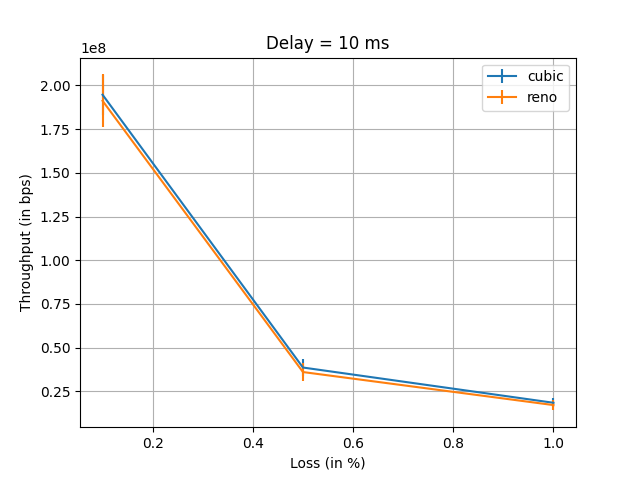
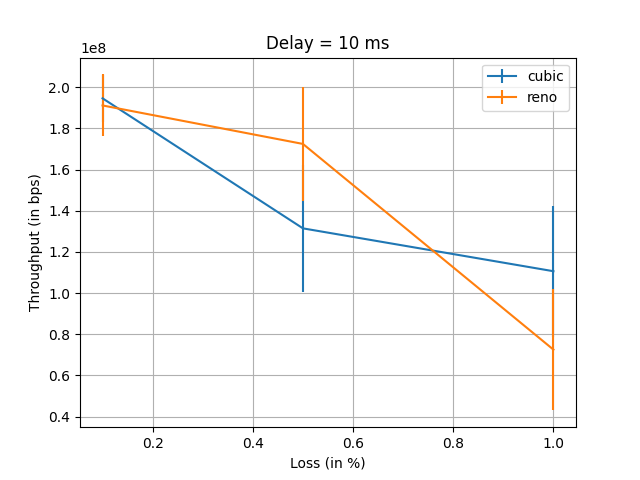
script

diff --git a/6/codes/plot.py b/6/codes/plot.py
@@ -60,8 +60,8 @@ for i in range(0,3):
 
 for i in range(0,3):
 	fig = plt.figure()
-	plt.errorbar(losses, mu_cubic[i][:], yerr=(1.645/math.sqrt(20))*sd_cubic[i][:],label='cubic')
-	plt.errorbar(losses, mu_reno[i][:], yerr=(1.645/math.sqrt(20))*sd_reno[i][:],label='reno')
+	plt.errorbar(losses, [row[i] for row in mu_cubic], yerr=(1.645/math.sqrt(20))*numpy.array([row[i] for row in sd_cubic]),label='cubic')
+	plt.errorbar(losses, [row[i] for row in mu_reno], yerr=(1.645/math.sqrt(20))*numpy.array([row[i] for row in sd_reno]),label='reno')
 	plt.title('Delay = %i ms' %delays[i])
 	plt.grid()
 	plt.xlabel("Loss (in %)")
